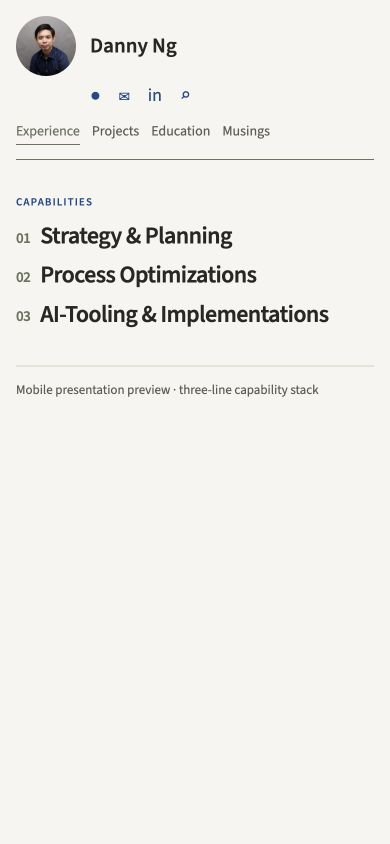
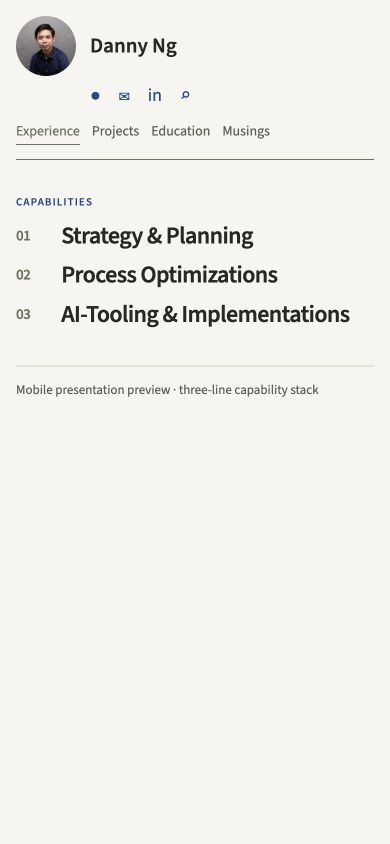
Implement numbered mobile capability stack

Changed region(s): [[0.0308, 0.2464, 0.8923, 0.4005]]

diff --git a/Export Preview/mobile-tagline-variants.html b/Export Preview/mobile-tagline-variants.html
@@ -27,10 +27,8 @@
     body[data-variant="1"] .v1, body[data-variant="2"] .v2, body[data-variant="3"] .v3, body[data-variant="4"] .v4, body[data-variant="5"] .v5 { display: block; }
     .v1 span::before { content: '|'; color: var(--olive); margin-right: 10px; font-weight: 500; }
     .v2 span::before { content: '—'; color: var(--olive); margin-right: 10px; font-weight: 500; }
-    .v3 span::before { color: var(--olive); display: inline-block; font-size: 15px; margin-right: 10px; vertical-align: .05em; }
-    .v3 span:nth-child(1)::before { content: '01'; }
-    .v3 span:nth-child(2)::before { content: '02'; }
-    .v3 span:nth-child(3)::before { content: '03'; }
+    .v3 > span { align-items: center; column-gap: 10px; display: grid; grid-template-columns: 2.2rem minmax(0, 1fr); }
+    .v3 > span > .number { color: var(--olive); font-size: 15px; font-style: normal; font-variant-numeric: tabular-nums; line-height: 1; }
     .v4 span { padding-left: 0; }
     .v4 span::before { color: var(--blue); display: block; font-size: 10px; font-weight: 600; letter-spacing: .12em; margin-bottom: 2px; text-transform: uppercase; }
     .v4 span:nth-child(1)::before { content: '01 / STRATEGY'; }
@@ -52,7 +50,7 @@
       <div class="label">Capabilities</div>
       <div class="title variant v1"><span>Strategy &amp; Planning</span><span>Process Optimizations</span><span>AI-Tooling &amp; Implementations</span></div>
       <div class="title variant v2"><span>Strategy &amp; Planning</span><span>Process Optimizations</span><span>AI-Tooling &amp; Implementations</span></div>
-      <div class="title variant v3"><span>Strategy &amp; Planning</span><span>Process Optimizations</span><span>AI-Tooling &amp; Implementations</span></div>
+      <div class="title variant v3"><span><i class="number" aria-hidden="true">01</i><span>Strategy &amp; Planning</span></span><span><i class="number" aria-hidden="true">02</i><span>Process Optimizations</span></span><span><i class="number" aria-hidden="true">03</i><span>AI-Tooling &amp; Implementations</span></span></div>
       <div class="title variant v4"><span>Strategy &amp; Planning</span><span>Process Optimizations</span><span>AI-Tooling &amp; Implementations</span></div>
       <div class="title variant v5"><span>Strategy &amp; Planning <i class="rule"></i></span><span>Process Optimizations <i class="rule"></i></span><span>AI-Tooling &amp; Implementations <i class="rule"></i></span></div>
       <p class="note">Mobile presentation preview · three-line capability stack</p>

diff --git a/style.css b/style.css
@@ -72,6 +72,9 @@ h1, h2, h3, p { margin-top: 0; }
 h1 { font-size: clamp(3rem, 6vw, 5.6rem); font-weight: 400; letter-spacing: -0.045em; line-height: 0.98; margin-bottom: 28px; max-width: 950px; }
 .intro h1 { font-family: "Source Sans Pro", Helvetica, sans-serif; font-size: clamp(1.25rem, 1.8vw, 1.65rem); font-weight: 600; letter-spacing: -0.02em; line-height: 1.04; margin: 0 0 1rem; max-width: none; }
 .intro-title-mobile { display: none; }
+.intro-point { align-items: center; display: grid; grid-template-columns: 2.2rem minmax(0, 1fr); column-gap: 0.55rem; }
+.intro-index { color: var(--olive); font-size: 0.78em; font-variant-numeric: tabular-nums; line-height: 1; }
+.intro-copy { min-width: 0; }
 h2 { font-size: clamp(1.8rem, 2.4vw, 2.35rem); font-weight: 600; letter-spacing: 0; line-height: 1.12; margin-bottom: 0.45rem; }
 .lede { color: var(--muted); font-size: clamp(1.05rem, 1.45vw, 1.22rem); line-height: 1.48; margin-bottom: 0; max-width: 680px; }
 .impact-list { display: grid; gap: 10px 18px; grid-template-columns: repeat(4, 1fr); list-style: none; margin: 36px 0 0; max-width: 1050px; padding: 0; }
@@ -167,7 +170,7 @@ h2 { font-size: clamp(1.8rem, 2.4vw, 2.35rem); font-weight: 600; letter-spacing:
   section[id] { scroll-margin-top: 220px; }
   .intro { padding: 56px 0 58px; }
   .intro-title-desktop { display: none; }
-  .intro-title-mobile { display: inline; }
+  .intro-title-mobile { display: grid; gap: 0.7rem; }
   .impact-list { grid-template-columns: repeat(2, 1fr); }
   .project-grid { grid-template-columns: 1fr; }
   .project-card a { align-items: center; display: inline-flex; min-height: 44px; }

diff --git a/index.html b/index.html
@@ -38,7 +38,7 @@
 
     <main id="top">
       <section class="intro shell" aria-labelledby="intro-title">
-        <h1 id="intro-title"><span class="intro-title-desktop">Strategy &amp; Planning | Process Optimizations | AI-Tooling &amp; Implementations</span><span class="intro-title-mobile">Strategy &amp; Planning | Process Optimization | AI Tooling</span></h1>
+        <h1 id="intro-title"><span class="intro-title-desktop">Strategy &amp; Planning | Process Optimizations | AI-Tooling &amp; Implementations</span><span class="intro-title-mobile"><span class="intro-point"><span class="intro-index" aria-hidden="true">01</span><span class="intro-copy">Strategy &amp; Planning</span></span><span class="intro-point"><span class="intro-index" aria-hidden="true">02</span><span class="intro-copy">Process Optimizations</span></span><span class="intro-point"><span class="intro-index" aria-hidden="true">03</span><span class="intro-copy">AI-Tooling &amp; Implementations</span></span></span></h1>
         <ul class="impact-list" aria-label="Selected outcomes">
           <li><span class="impact-context">HLS Interiors</span><strong>2×</strong><span>revenue growth after the business moved from low-margin, volume-led work toward higher-value household services.</span></li>
           <li><span class="impact-context">HLS Interiors</span><strong>30%</strong><span>margin improvement through revised positioning, competitor mapping, and pricing work.</span></li>
